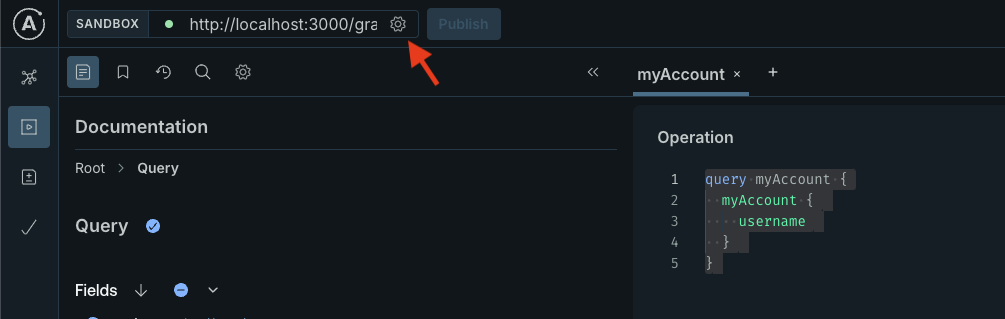
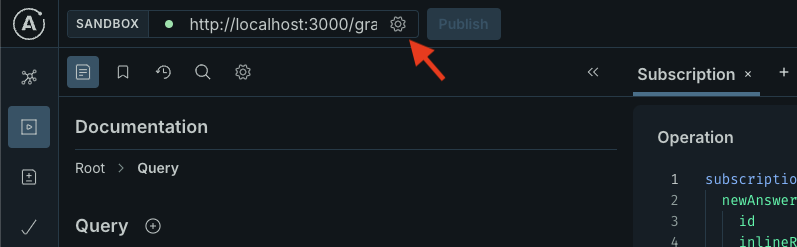
README

diff --git a/README.md b/README.md
@@ -1,6 +1,9 @@
-# Canvassing API
+# Canvassing API prototype
 
-Objective: Develop a backend API to support a civic canvassing service. This API will be used by both a mobile application and a website to facilitate the delivery of questionnaires and the capture of responses on a per household basis.
+Objective: Develop a backend API to support a civic canvassing service. This API
+will be used by both a mobile application and a website to facilitate the
+delivery of questionnaires and the capture of responses on a per household
+basis.
 
 Scenario: A typical user of this service is a volunteer performing door-to-door
 canvassing efforts for an organization. The volunteer selects a postal address
@@ -17,10 +20,6 @@ removed from the list for all users.
 * Administrative Updates: Organization administrators can add or remove households from
 the shared list, and updates must propagate in real-time to all logged-in users.
 * Single Record: Only one set of answers per household is needed.
-
-## Architecture Diagram
-
-TODO
 
 ## Design Decisions
 
@@ -59,51 +58,64 @@ manipulate data while non-admin users are collecting answers to questionnaires.
 The implementation stores a User entity supporting password authentication to
 obtain a JWT token to be included in REST/GraphQL requests.
 
+### Other considerations
+
+I also considered Python ecosystem options, where I have more experience, but
+decided to go with TypeScript/NestJS to gain more experience. With more time, I
+would have likely further prototyped with other languages to compare/contrast.
+The Go programming language could provide a nice solution.
+
+I also considered a solution utilizing AWS infrastructure components such as API
+Gateway and/or AppSync, but decided it was best to provide a more
+straightforward code repository that could be demonstrated more easily and run
+locally.
+
+## Architecture Diagram
+
+![Architecture Diagram](./architecture_diagram.png)
+
+To generate the diagram from [diagram.mermaid](./diagram.mermaid):
+
+```shell
+npm install -g @mermaid-js/mermaid-cli
+mmdc -i diagram.mermaid -o architecture_diagram.png -t dark -b transparent
+```
+
 ## Database Model
 
 ![Database Model](./readme_assets/database_model_diagram.png)
-
-
-## Description
-
-### Diagram
-
-```mermaid
-flowchart TD
-    A[Mobile App]
-    B[Website]
-    C[NestJS REST Endpoints]
-    D[NestJS GraphQL Endpoints]
-    E[Database]
-
-    A -->|Requests| C
-    B -->|Requests| C
-    A -->|Requests| D
-    B -->|Requests| D
-    C -->|Database queries| E
-    C -->|Publishes events| D
-    D -->|Pushes GraphQL/WS Subscription updates| A
-    D -->|Pushes GraphQL/WS Subscription updates| B
-```
 
 ## Overview
 
 ## Demo
 
+I have developed the application using Node.js version v20.18.2. After [downloading](https://nodejs.org/en/download) and installing the latest v20.18 LTS version, next install the project dependencies:
+
+```bash
+$ node --version 
+v20.18.x
+$ npm i
+...
+$ npx @nestjs/cli@11.0.2 --version
+11.0.2
+$ alias nest='npx @nestjs/cli@11.0.2'
+```
+
 For demo purposes, we'll use a local SQLite database instead of a database
-server, but the application can also be configured to use PostgreSQL as the
-database server. The following command will build the application and generate
-demo data stored to a canvassing-development.sqlite file in the project
-directory.
+server, but the application can also be configured to use PostgreSQL or other
+RDBMS.
+
+The following command will build the application and generate demo data stored
+to a canvassing-development.sqlite file in the project directory.
 
 ```bash
 npm run build && rm ./canvassing-development.sqlite; npm run manage:dev seed
 ```
 
 After the database has been seeded, two users exist. 1) `admin` which has
-administrative rights and 2) `demo` which is a normal user. Additional fake
-entity data has been generated and stored to the database to make it easier to
-test features.
+administrative rights and 2) `demo` which is a normal user. For both, the
+initial password is the same as the username. Additional fake entity data has
+been generated and stored to the database to make it easier to test features.
 
 You can then start the development server:
 
@@ -114,16 +126,18 @@ npm run start:dev
 Then, you can visit the following in your browser to explore the services, which
 include a REST API and a GraphQL API:
 
-- OpenAPI/Swagger UI: <http://localhost:3000/api>
-- GraphQL Sandbox UI: <Http://Localhost:3000/Graphql>
+* OpenAPI/Swagger UI: <http://localhost:3000/api>
+* GraphQL Sandbox UI: <Http://Localhost:3000/Graphql>
 
 ### Authentication
 
 REST and GRAPHQL requests must be authenticated with a JWT token. The token should be included in HTTP requests with header name `Authorization` and value formatted as `Bearer <JWT_TOKEN>`.
 
-The `auth/login` REST endpoint can be used to obtain a JWT token by logging in
-with username and password. For the demo and development, we can generate auth
-tokens using a command line utility...
+For the demo and development, we can generate auth
+tokens using a command line utility. 
+
+(Note: The `auth/login` REST endpoint would typically be used to obtain a JWT
+token by logging in with username and password.)
 
 ### Admin user token generation
 
@@ -131,7 +145,7 @@ To generate a JWT token for the `admin` user that was generated when seeing the 
 
 ```bash
 $ npm run manage:dev devtoken admin
-Bearer ...
+Bearer <JWT_TOKEN>
 ```
 
 ### Non-admin user token generation
@@ -140,7 +154,7 @@ To generate a JWT token for the non-admin `demo` user that was generated when se
 
 ```bash
 $ npm run manage:dev devtoken demo
-Bearer ...
+Bearer <JWT_TOKEN>
 ```
 
 Next, copy/save the generated tokens to then use with the Swagger and GraphQL
@@ -151,17 +165,7 @@ different token value:
 Bearer eyJhbGciOiJIUzI1NiIsInR5cCI6IkpXVCJ9.eyJ1c2VybmFtZSI6ImFkbWluIiwic3ViIjoxLCJpYXQiOjE3Mzk2NzI2NDgsImV4cCI6MTc0NzQ0ODY0OH0.iO89OCf-1avukhGULLtU6sP9brfA6zyhNpuLb_ptKdQ
 ```
 
-The following is a a curl example, utilizing the JWT token in the HTTP request
-header:
-
-```bash
-$ curl -X 'GET' \
-  'http://localhost:3000/partner/organization' \
-  -H 'accept: */*' -H 'Authorization: Bearer eyJhbGciOiJIUzI1NiIsInR5cCI6IkpXVCJ9.eyJ1c2VybmFtZSI6ImFkbWluIiwic3ViIjoxLCJpYXQiOjE3Mzk2NzI2NDgsImV4cCI6MTc0NzQ0ODY0OH0.iO89OCf-1avukhGULLtU6sP9brfA6zyhNpuLb_ptKdQ'
-{"id":1,"name":"Gutkowski, Flatley and Douglas"}
-```
-
-#### Setting the auth token for the GraphQL explorer
+### Setting the auth token for the GraphQL explorer
 
 After starting the development server, visit <http://localhost:3000/graphql>. In
 the upper left hand corner you will see a gear icon to open connection settings.
@@ -174,14 +178,22 @@ for the demo.
 ![GraphQL Playground Connection Settings](./readme_assets/gql_playground_connection_settings.png)
 ![GraphQL Playground Bearer Auth](./readme_assets/gql_playground_bearer_auth.png)
 
-#### Setting the auth token for the Swagger REST/OpenAPI explorer
+### Setting the auth token for the Swagger REST/OpenAPI explorer
 
 After starting the development server, visit <http://localhost:3000/api>. In the upper right hand side you will find a button labeled "Authorize". Click that button and then enter the generated token using the pattern `<JWT_TOKEN>`.
 
-![Swagger Playground Auth Settings](./readme_assets/openai_playground_auth_settings.png)
-![GraphQL Playground Bearer Auth](./readme_assets/openai_playground_bearer_entry.png)
+![Swagger Playground Auth Settings](./readme_assets/openapi_playground_auth_settings.png)
+![GraphQL Playground Bearer Auth](./readme_assets/openapi_playground_bearer_entry.png)
 
-#### Example GraphQL queries
+### Example GraphQL queries
+
+#### The MyAccount Query
+
+After setting the `demo` user token in the GraphQL sandbox auth, the following
+GraphQL Query will return the user's account information and associated entities
+which include their organizations, questionnaires, and address lists. You can
+use the GraphQL sandbox to further explore the model attributes for this `demo`
+user.
 
 ```graphql
 query MyAccount {
@@ -219,7 +231,10 @@ query MyAccount {
 }
 ```
 
-##### Submitting a new answer
+### The submitAnswer Mutation
+
+Also using the `demo` user, you can submit a new answer. You will need to obtain
+valid associated record ids from the demo database.
 
 ```graphql
 mutation Mutation($submitAnswerDto: SubmitAnswerDto!) {
@@ -237,7 +252,11 @@ mutation Mutation($submitAnswerDto: SubmitAnswerDto!) {
 }
 ```
 
-##### Subscription to answer creation events
+### The newAnswer Subscription
+
+Using GraphQL's WebSocket Subscription capability, the front end can receive
+real time notifications when an answer has been submitted. Again, using the
+`demo` user:
 
 ```graphql
 subscription Subscription {
@@ -278,7 +297,44 @@ subscription Subscription {
 
 ![GraphQL Subscription event through WebSocket](./readme_assets/graphql_sandbox_subscriptions.png)
 
-## Steps I took setting up the project
+## Example REST requests
+
+In addition to the Swagger UI, you may find it more convenient to use `curl`. Here are some examples:
+
+```bash
+# Seed demo database
+
+# Generate admin user JWT token
+$ npm run manage:dev devtoken admin
+
+> canvassing@0.0.1 manage:dev
+> NODE_ENV=dev node dist/management devtoken admin
+
+Bearer eyJhbGciOiJIUzI1NiIsInR5cCI6IkpXVCJ9.eyJzdWIiOjEsInVzZXJuYW1lIjoiYWRtaW4iLCJyb2xlIjoiYWRtaW4iLCJpYXQiOjE3Mzk4MjI4NjEsImV4cCI6MTc0NzU5ODg2MX0.Dpf-OGBD0rKZo4onC_qdmKXVplD24jInU7INne2LImo
+
+## Set token in environment variable
+$ export JWT_TOKEN='eyJhbGciOiJIUzI1NiIsInR5cCI6IkpXVCJ9.eyJzdWIiOjEsInVzZXJuYW1lIjoiYWRtaW4iLCJyb2xlIjoiYWRtaW4iLCJpYXQiOjE3Mzk4MjI4NjEsImV4cCI6MTc0NzU5ODg2MX0.Dpf-OGBD0rKZo4onC_qdmKXVplD24jInU7INne2LImo'
+
+$ curl -X 'GET' \
+  'http://localhost:3000/admin/organizations' \
+  -H 'accept: */*' -H "Authorization: Bearer $JWT_TOKEN"
+[{"id":1,"name":"Armstrong Group"}]
+
+$ curl -X 'GET' \
+  'http://localhost:3000/admin/questions' \
+  -H 'accept: */*' -H "Authorization: Bearer $JWT_TOKEN"
+[{"id":1,"text":"Do you like Generationwhy by Sean Kingston?"},{"id":2,"text":"Do you like Rise Of An Empire by Johnny Horton?"},{"id":3,"text":"Do you like What A Time To Be Alive by Gzuz?"},{"id":4,"text":"Do you like Homerun by Bradley Cooper?"},{"id":5,"text":"Do you like The Sufferer & The Witness by The Go Gos?"},{"id":6,"text":"Do you like Blood Sugar Sex Magik by Dermot Kennedy?"},{"id":7,"text":"Do you like Guerra by The Emotions?"},{"id":8,"text":"Do you like ENR by Ray Parker Jr?"},{"id":9,"text":"Do you like Realer by Bryan Adams?"},{"id":10,"text":"Do you like The Stranger by Juanes?"}]
+
+$ curl -X 'GET' \
+  'http://localhost:3000/admin/addresslists' \
+  -H 'accept: */*' -H "Authorization: Bearer $JWT_TOKEN"
+[{"id":1,"title":"Address List 1","organizationId":1},{"id":2,"title":"Address List 2","organizationId":1},{"id":3,"title":"Address List 3","organizationId":1}]
+
+```
+
+
+
+# Ben's notes
 
 ```bash
 node --version # v20.18.2
@@ -297,13 +353,14 @@ npm install -g @mermaid-js/mermaid-cli
 npm install --save @nestjs/swagger
 npm i @nestjs/graphql @nestjs/apollo @apollo/server graphql --save
 npm i --save bcrypt
+# I initially tried to utilize the passport.js library but defaulted to the Nest authentication doc steps...
 # npm install --save @nestjs/passport passport passport-local
 # npm install --save-dev @types/passport-local
 #npm install --save @nestjs/jwt passport-jwt
 #npm install --save-dev @types/passport-jwt
 npm install --save sqlite3
 npm install nest-commander --save
-# npm i graphql-ws --save
+npm i graphql-ws --save
 npm i graphql-subscriptions --save
 ```
 
@@ -340,9 +397,9 @@ $ npm run start:debug
 
 ## Nest.js - Run tests
 
-```bash
 # unit tests
 $ npm run test
+```
 
 ## Nest.js -- Deployment
 
